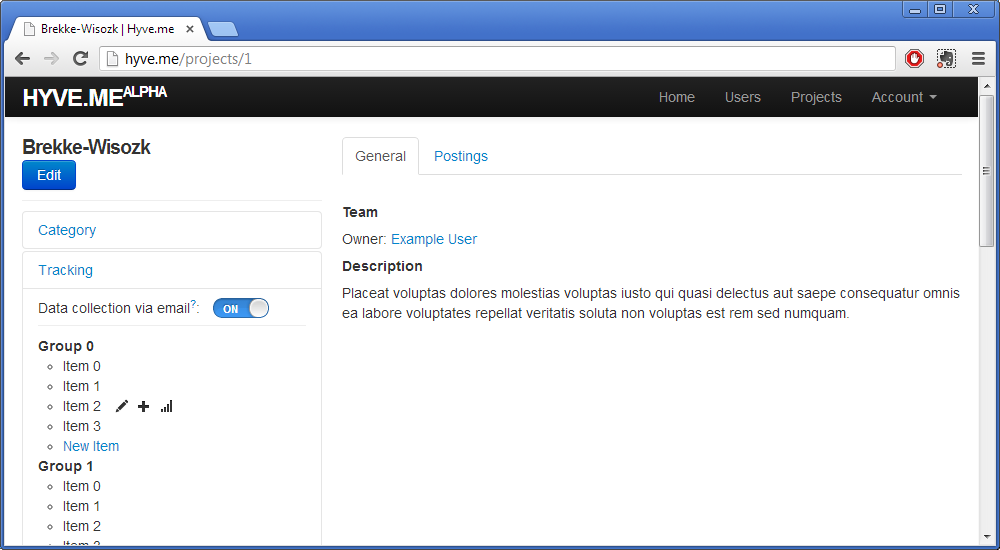
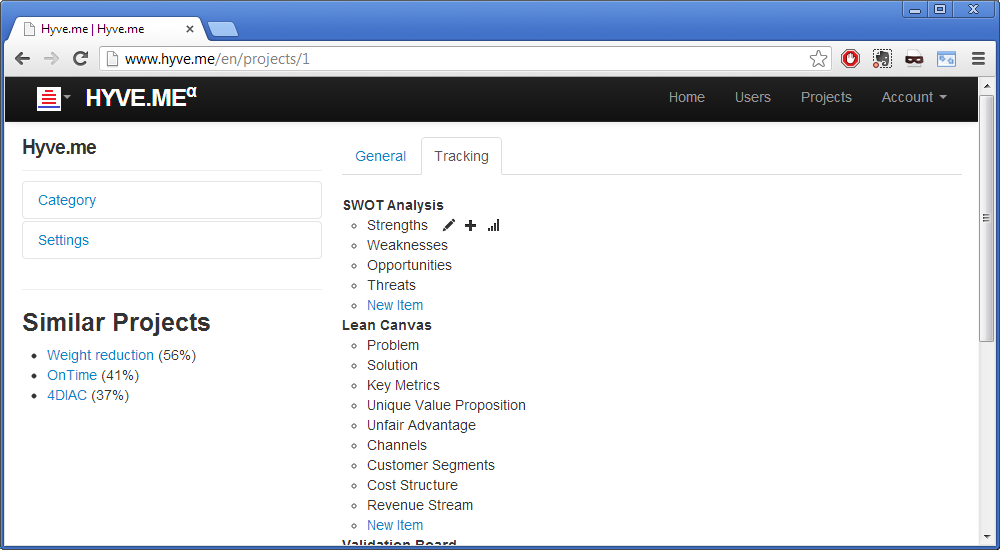
hint for data tracking added

diff --git a/app/controllers/projects_controller.rb b/app/controllers/projects_controller.rb
@@ -25,6 +25,11 @@ class ProjectsController < ApplicationController
     @user = User.find_by_id(@project.user_id)
     @categories = Pjattrib.all(:conditions => "project_id=" + params[:id] + " and attrtype>0 and attrtype<8", :order => "attrtype ASC")
     @groups = Group.all(:conditions => "project_id=" + params[:id], :order => "created_at ASC")
+    if flash[:info].nil?
+      if Structure.where(:group_id => Group.select("id").where(project_id: @project.id)).count == 0 && current_project_user?(@project)
+        flash[:info] = t('project.datastructHint')
+      end
+    end
   end
 
   def update_email

diff --git a/config/routes.rb b/config/routes.rb
@@ -42,6 +42,7 @@ scope "(:locale)", :locale => /en|de/ do
   match '/signin',    to: 'sessions#new'
   match '/signout',   to: 'sessions#destroy'
   match '/email',     to: 'static_pages#email'
+  match '/tracking',  to: 'static_pages#tracking'
   match '/privacy',   to: 'static_pages#privacy'
   match '/changelog', to: 'static_pages#changelog'
 

diff --git a/app/controllers/static_pages_controller.rb b/app/controllers/static_pages_controller.rb
@@ -1,4 +1,8 @@
 class StaticPagesController < ApplicationController
+  def tracking
+    flash.now[:info]="discard"
+  end
+
   def statistic
     @datavals = Dataval.group("DATE_TRUNC('week', valdatime)").count.sort
     a=[]
